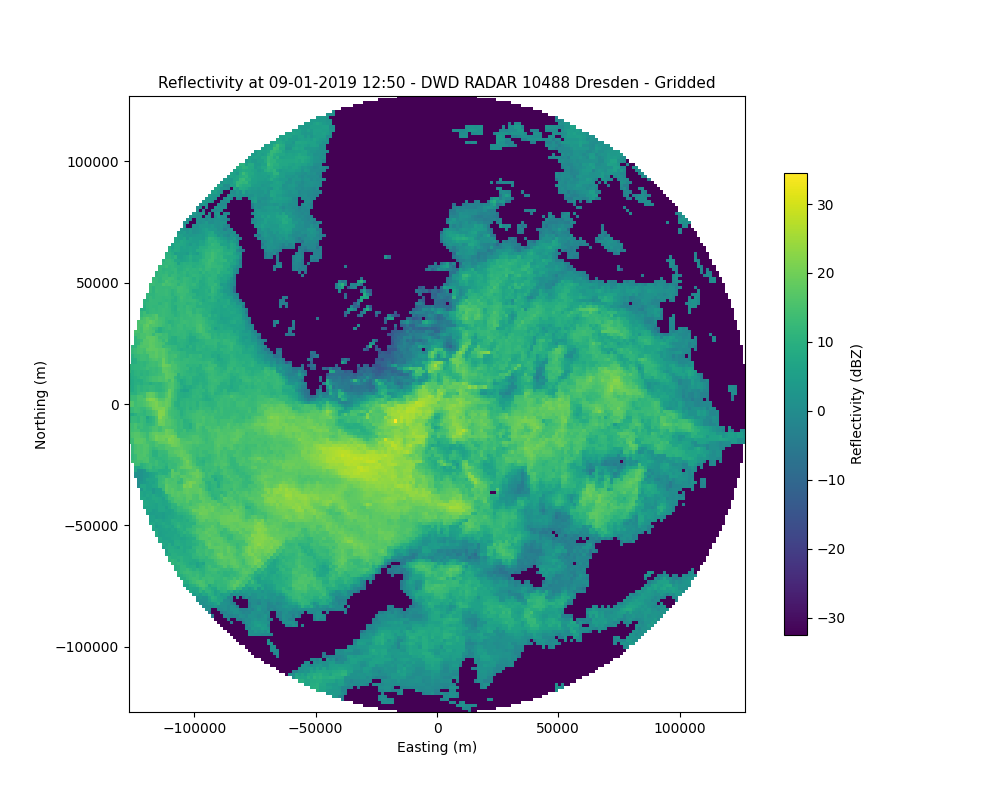
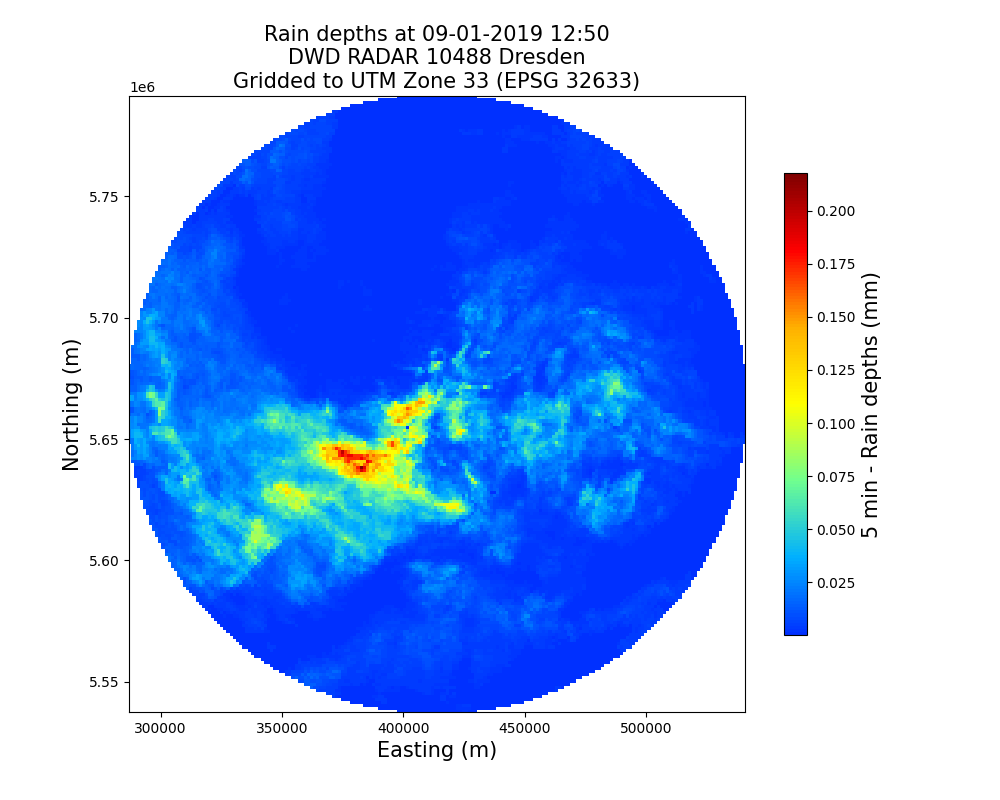
Calculate gridded data.

diff --git a/code/example_1901091250.py b/code/example_1901091250.py
@@ -1,27 +1,31 @@
+# Radar postprocessing workflow example: 09.01.2019, Radar Dresden
+
 import datetime
 import numpy as np
 import matplotlib.pylab as pl
 import wradlib as wrl
 
 import func
+from colorbar import cm
 
 
+# Configure filename and path.
 filename = 'raa00-dx_10488-1901091250-drs---bin'
 fpath = 'example_data/'
 
-radar_location = (13.769722, 51.125278, 263) # (lon, lat, alt) in decimal degree and meters
-elevation = 0.8 # in degree
+# Configure radar location and elevation.
+radar_location = (13.769722, 51.125278, 263) # (lon, lat, alt) in decimal degree and meters.
+elevation = 0.8 # elevation in degree.
 
 # Read data.
 f = wrl.util.get_wradlib_data_file(fpath+filename)
 data, metadata = wrl.io.read_dx(f)
-print("data shape:", data.shape, "\nmetadata:", metadata.keys())
-      
+
 # Get date and time.
 dt = datetime.datetime.strptime(filename[15:25], "%y%m%d%H%M")
 
 # Plot reflectivity of raw data.
-func.raw_plot(data, dt, filename)
+func.plot_rawdata(data, dt, filename)
 
 # Clutter correction.
 clmap, data_no_clutter = func.clutter_gabella(data, dt, filename)
@@ -34,33 +38,49 @@ R = wrl.zr.z_to_r(wrl.trafo.idecibel(data_attcorr))
 
 # Integrate rainfall rates to rainfall depth for 300sec.
 depths = wrl.trafo.r_to_depth(R, 300)
-func.rain_depths(depths, dt, filename)
+func.plot_raindepths(depths, dt, filename)
 
-# Project polar in cartesian coordinates.
-polargrid = np.meshgrid(np.arange(0, 128000., 1000.), np.arange(0,360)) # ranges in meters, azimuths in degrees
-coords, rad = wrl.georef.spherical_to_xyz(polargrid[0], polargrid[1], elevation, radar_location)
-x = coords[..., 0]
-y = coords[..., 1]
-utm = wrl.georef.epsg_to_osr(32633) # EPSG-number, UTM Zone 33
+# Create cartesian grid and reproject into UTM Zone 33 (EPSG-number 32633)
+ranges = np.arange(0, 128000., 1000.) # in meters
+azimuths = np.arange(0,360) # in degrees
+polargrid = np.meshgrid(ranges, azimuths)
+coords, rad = wrl.georef.polar.spherical_to_xyz(polargrid[0], polargrid[1], elevation, radar_location) # range, azimut, elevation, radar location, coords: (1,360,128,3)-array
+utm = wrl.georef.epsg_to_osr(32633)
 utm_coords = wrl.georef.reproject(coords, projection_source=rad, projection_target=utm)
-radolan = wrl.georef.create_osr("dwd-radolan")
-radolan_coords = wrl.georef.reproject(coords, projection_target=radolan)
-xgrid = np.linspace(x.min(), x.max(), 200)
+x = utm_coords[..., 0]
+y = utm_coords[..., 1]
+z = utm_coords[..., 2]
+
+# Create cartesian coordinates of the composite (UTM).
+xgrid = np.linspace(x.min(), x.max(), 200) # first two arguments: area of interest, third argument: resolution
 ygrid = np.linspace(y.min(), y.max(), 200)
-grid_xy = np.meshgrid(xgrid, ygrid)
-grid_xy = np.vstack((grid_xy[0].ravel(), grid_xy[1].ravel())).transpose()
+grid_xy = np.meshgrid(xgrid, ygrid) # 2 lists of 100 lists
+grid_xy = np.vstack((grid_xy[0].ravel(), grid_xy[1].ravel())).transpose() # (1000,2) - array -> [lat, lon] for each cell
+
+# Create cartesian coordinates of the radar bins.
 xy=np.concatenate([x.ravel()[:,None],y.ravel()[:,None]], axis=1)
-gridded = wrl.comp.togrid(xy, grid_xy, 128000., np.array([x.mean(), y.mean()]), data.ravel(), wrl.ipol.Nearest)
+
+# Interpolate data to composite grid.
+gridded = wrl.comp.togrid(src=xy, trg=grid_xy, #
+                          radius=128000., center=np.array([x.mean(), y.mean()]), 
+                          data=depths.ravel(), interpol=wrl.ipol.Nearest) # Nearest or Idw
 gridded = np.ma.masked_invalid(gridded).reshape((len(xgrid), len(ygrid)))
 
-fig = pl.figure(figsize=(10,8))
+# Plot gridded radar field.
+fig = pl.figure(figsize=(10, 8))
 ax = pl.subplot(111, aspect="equal")
-pm = pl.pcolormesh(xgrid, ygrid, gridded)
+pm = pl.pcolormesh(xgrid, ygrid, gridded, cmap=cm)
 cbar = pl.colorbar(pm, shrink=0.75)
-cbar.set_label("Reflectivity (dBZ)")
-pl.xlabel("Easting (m)")
-pl.ylabel("Northing (m)")
+cbar.set_label("5 min - Rain depths (mm)", fontsize=15)
+pl.xlabel("Easting (m)", fontsize=15)
+pl.ylabel("Northing (m)", fontsize=15)
 pl.xlim(min(xgrid), max(xgrid))
 pl.ylim(min(ygrid), max(ygrid))
-pl.title(f'Reflectivity at {dt.strftime("%d-%m-%Y %H:%M")} - DWD RADAR 10488 Dresden - Gridded', fontsize=11)
+pl.title(f'Rain depths at {dt.strftime("%d-%m-%Y %H:%M")}\nDWD RADAR 10488 Dresden\nGridded to UTM Zone 33 (EPSG 32633)', fontsize=15)
 pl.savefig(f"images/radar_dx _drs_{filename[15:25]}_grid.png")
+
+# Read gauge data.
+
+# Apply RADAR-gauge adjustment methods.
+
+# Evaluate RADAR-gauge adjustment methods.
